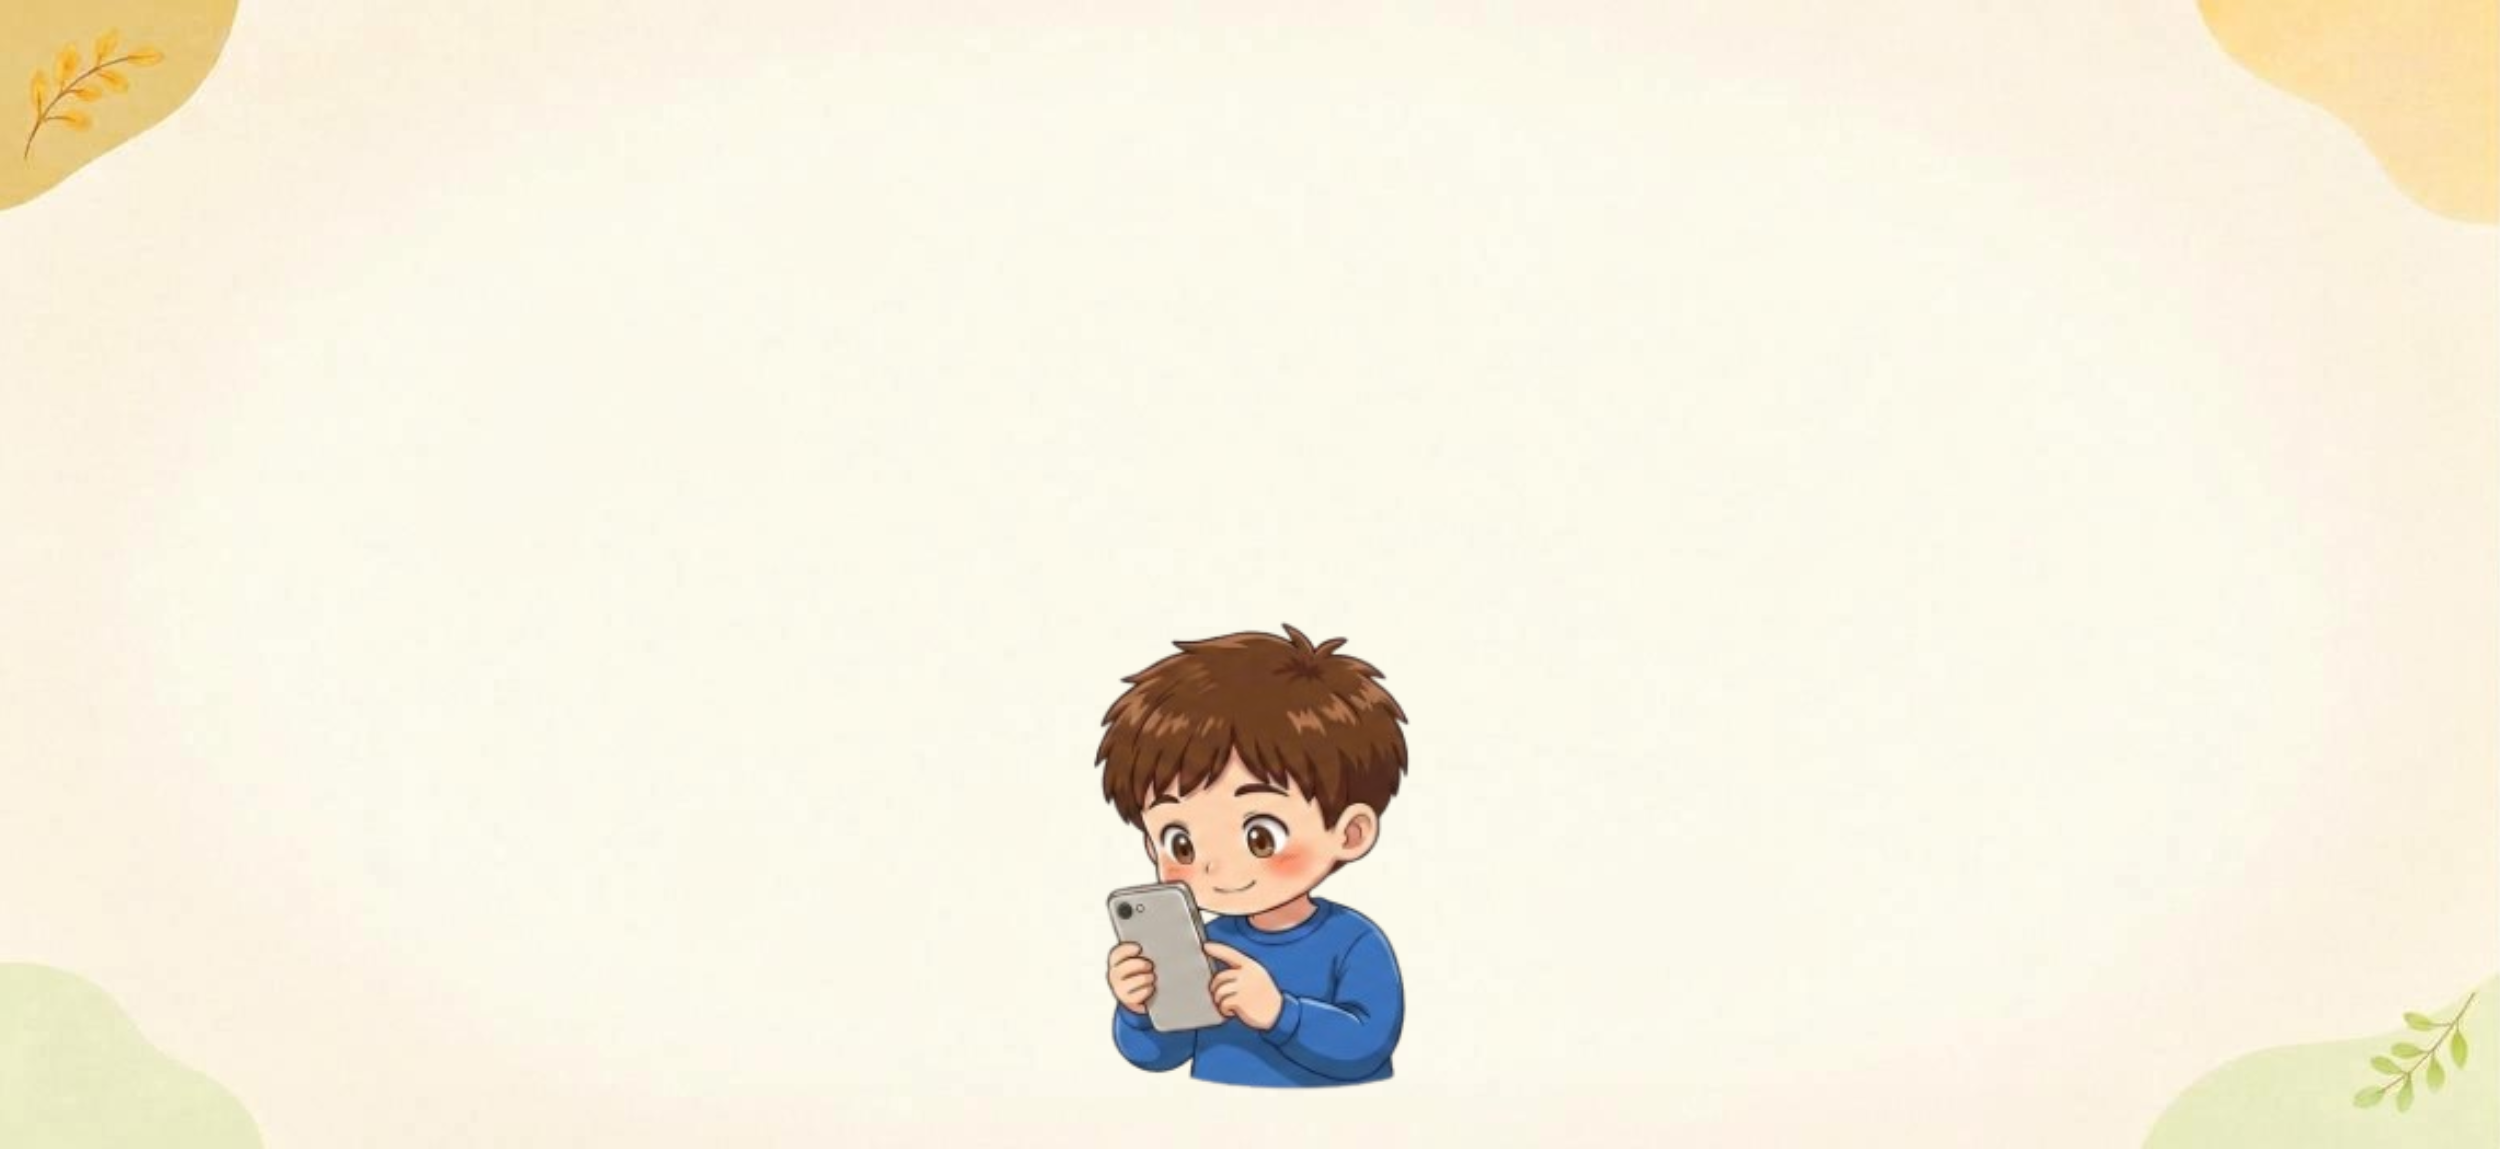
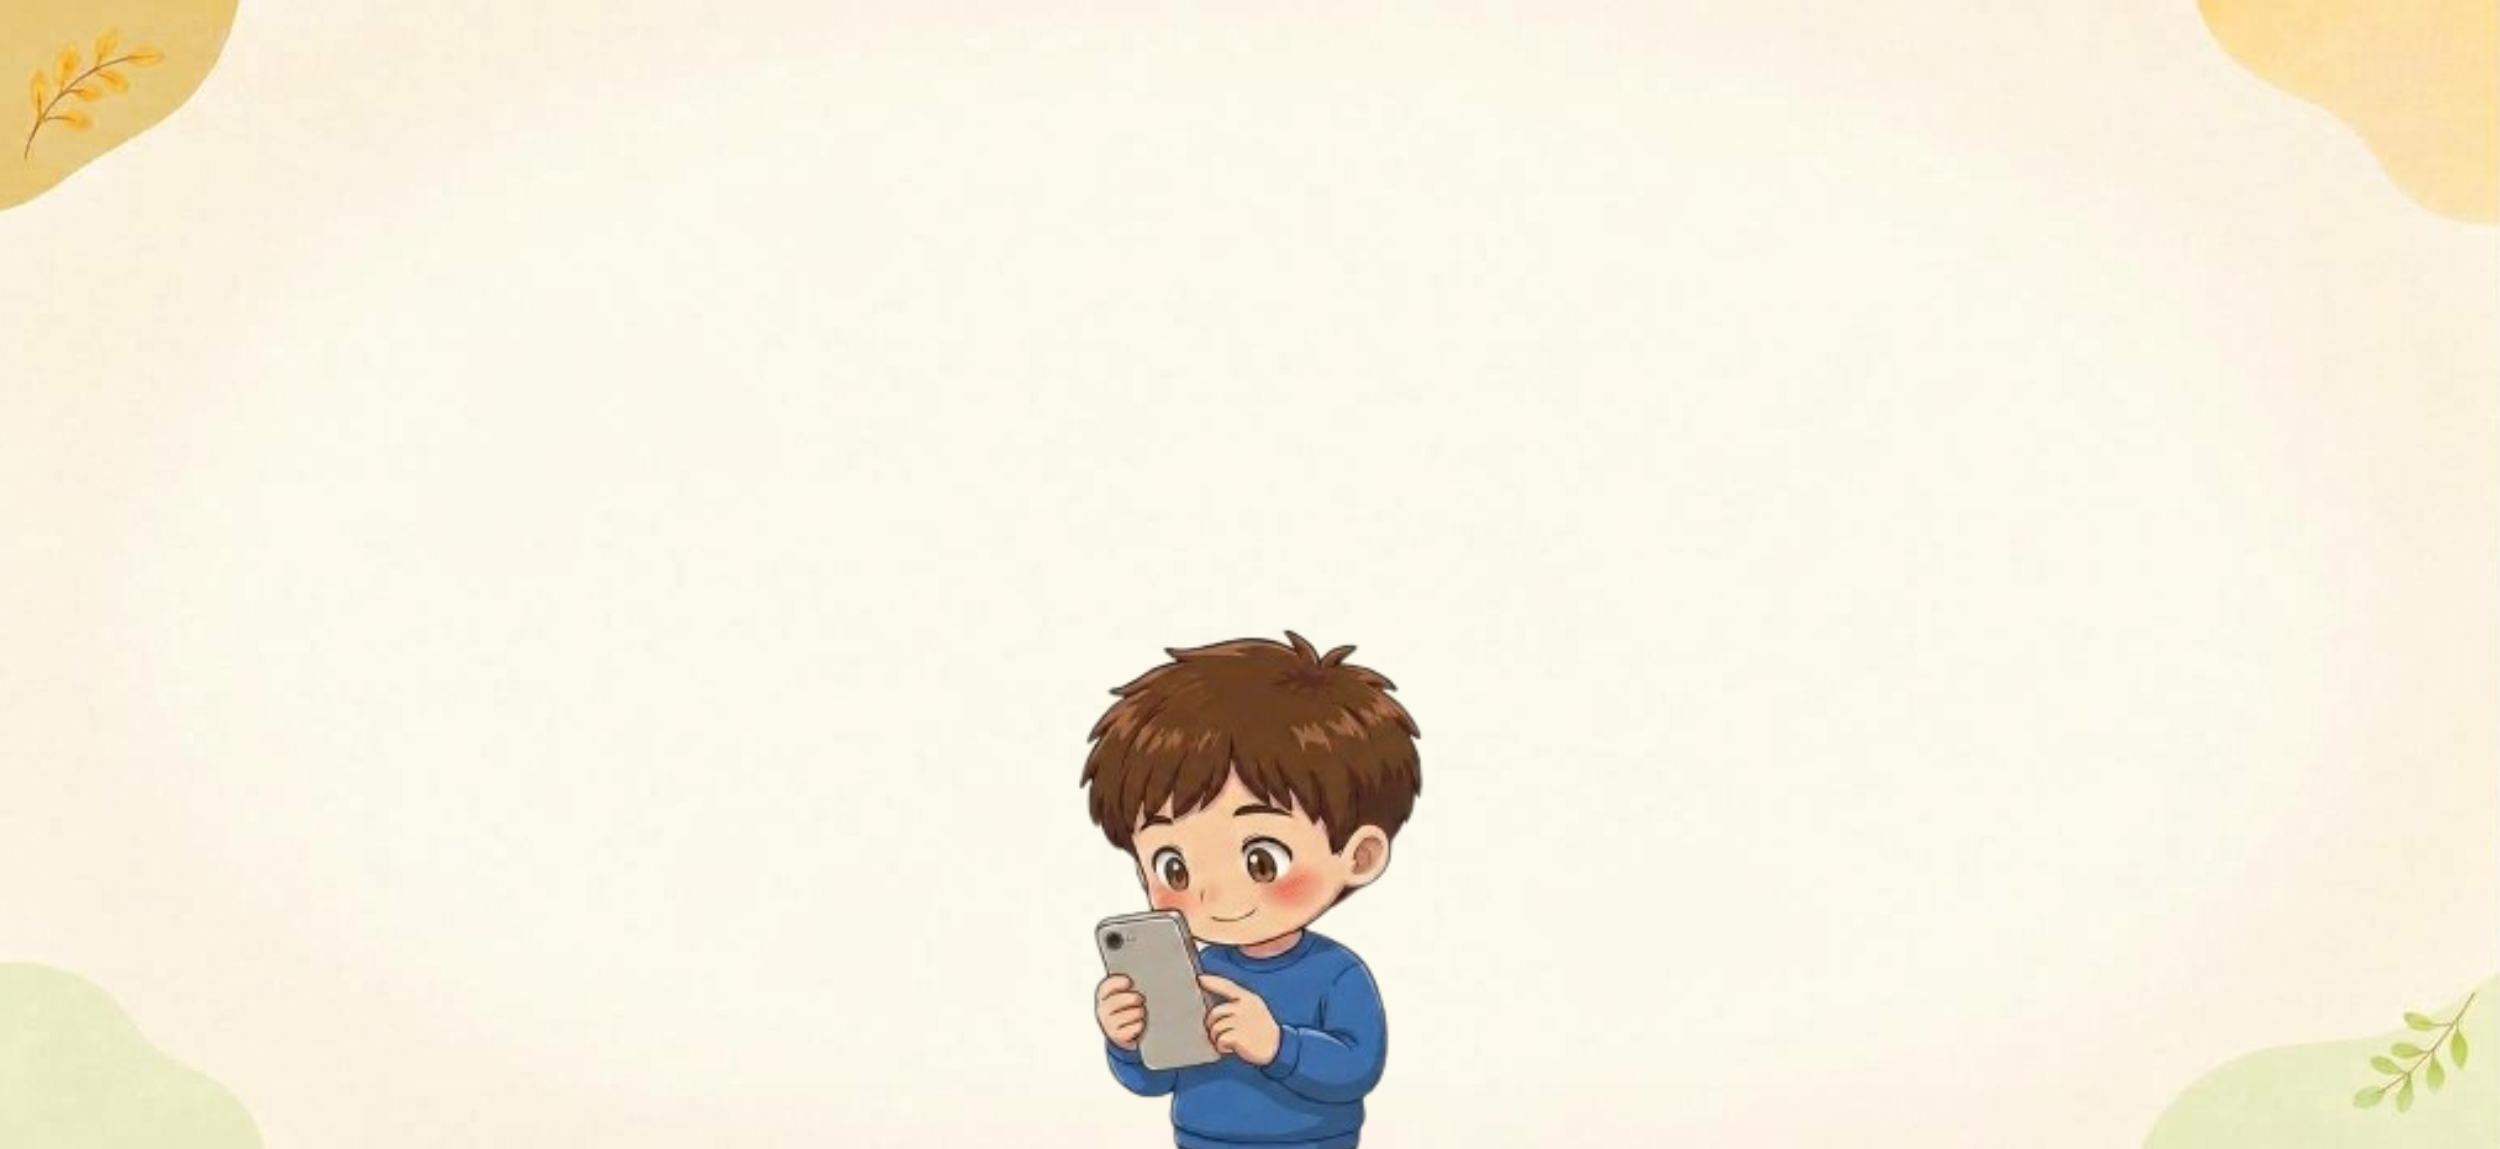
背景画像を用途別の名前に整理し旧版を置換

Changed region(s): [[0.4056, 0.5483, 0.5928, 1.0]]

diff --git a/src/App.vue b/src/App.vue
@@ -25,12 +25,12 @@ import gameStartBg from './assets/screens/game-start-background.png';
 import courseEasy from './assets/screens/course-easy.webp';
 import courseHard from './assets/screens/course-hard.webp';
 import courseMix from './assets/screens/course-mix.webp';
-import customerHandoff from './assets/アプリ背景 (4).png';
+import customerHandoff from './assets/screens/customer-handoff-background.png';
 import clerkHandoffBg from './assets/screens/clerk-handoff-background.png';
 import clerkRulesBg from './assets/screens/clerk-rules-background.png';
-import successBg from './assets/アプリ背景 (5).png';
+import successBg from './assets/screens/success-background.png';
 import failureBg from './assets/screens/failure-background.png';
-import finalFailureBg from './assets/アプリ背景 (6).png';
+import finalFailureBg from './assets/screens/final-failure-background.png';
 import customerShopBg from './assets/screens/customer-shop-background.png';
 import questionCloseButton from './assets/question-close-button.png';
 import clerkShopBg from './assets/screens/clerk-shop-background.png';

diff --git a/tests/voiceRequestedChanges.spec.js b/tests/voiceRequestedChanges.spec.js
@@ -2,9 +2,9 @@ import { mount } from '@vue/test-utils';
 import { afterEach, describe, expect, it, vi } from 'vitest';
 import { nextTick } from 'vue';
 import App from '../src/App.vue';
-import customerHandoffBg from '../src/assets/アプリ背景 (4).png';
-import successBg from '../src/assets/アプリ背景 (5).png';
-import finalFailureBg from '../src/assets/アプリ背景 (6).png';
+import customerHandoffBg from '../src/assets/screens/customer-handoff-background.png';
+import successBg from '../src/assets/screens/success-background.png';
+import finalFailureBg from '../src/assets/screens/final-failure-background.png';
 import { associationQuestions, gestureQuestions, finalQuestion, selectionPrompt } from '../src/lib/questions.js';
 vi.mock('../src/composables/useSfx.js', async () => {
  const { ref }=await import('vue');

diff --git a/tests/successScreen.spec.js b/tests/successScreen.spec.js
@@ -2,7 +2,7 @@ import { mount } from '@vue/test-utils';
 import { afterEach, describe, expect, it, vi } from 'vitest';
 import { nextTick } from 'vue';
 import App from '../src/App.vue';
-import successBg from '../src/assets/アプリ背景 (5).png';
+import successBg from '../src/assets/screens/success-background.png';
 import { finishHelp } from './finishHelp.js';
 import { emotionExamples } from '../src/data/emotionExamples.js';
 import { gestureQuestions, associationQuestions } from '../src/lib/questions.js';
